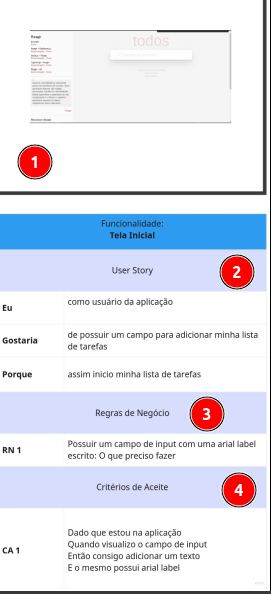
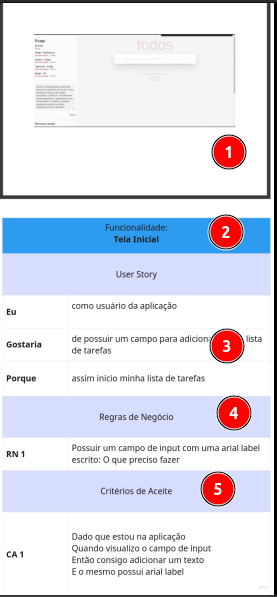
update

diff --git a/README.md b/README.md
@@ -16,16 +16,39 @@ Esse projeto foi proposto no curso **Plano de Teste** da Priscila Caimi
 ### Ferramentas
 
 - Site utilizado para elaboração do projeto [TODOMVC](https://todomvc.com/examples/react/#/)
-  [](!./img/site_todomvc.png)
+  ![](./img/site_todomvc.png)
 - Miro para levantamento de requisitos e elaboração das regras de negocio e critérios de aceite
 - Notion pata elaboração do Plano de teste
 
 ## Analise do projeto
 
-[](!./img/func_01_analise.png)
+![](./img/func_01_analise.png) ![](./img/func_02_analise.png)
+
+![](./img/func_03_analise.png) ![](./img/func_04_analise.png)
+
+![](./img/func_05_analise.png) ![](./img/func_06_analise.png)
+
+![](./img/func_07_analise.png) ![](./img/func_08_analise.png)
 
 ### Plano de Teste
 
 O palno de teste se encontra nesse link que vai levar para o notion [plano de teste](https://www.notion.so/Plano-de-Teste-TODOMVC-Q1-2023-915cbbab8afe45d3817aae781a2d0a83?pvs=4)
 
 [](!./img/ref_apresentacao_pl_teste.png)
+
+1. Indicação da imagem a ser segida
+2. Indica qual funcionalidade iremos analisar, indicando seu número e nome
+3. Descrição em alto da funcionalidade, indicando o usuário que irá utilizar, a funcionalidade desejada e porque da existeência desta funcionalidade
+4. Listagem das regras de negócio a serem integradas
+5. Validação de critérios de aceites para informar o cumprimento do desenvolvimento
+
+#### Funcionalidade
+
+- Tela Inicial
+- Adicionar itens
+- Validar filtro - todos
+- validar filtro - ativos
+- validar filtro - concluido
+- Conclusão de itens - unitária
+- Conclusão de itens - em lotes
+- Limpar itens finalizados
